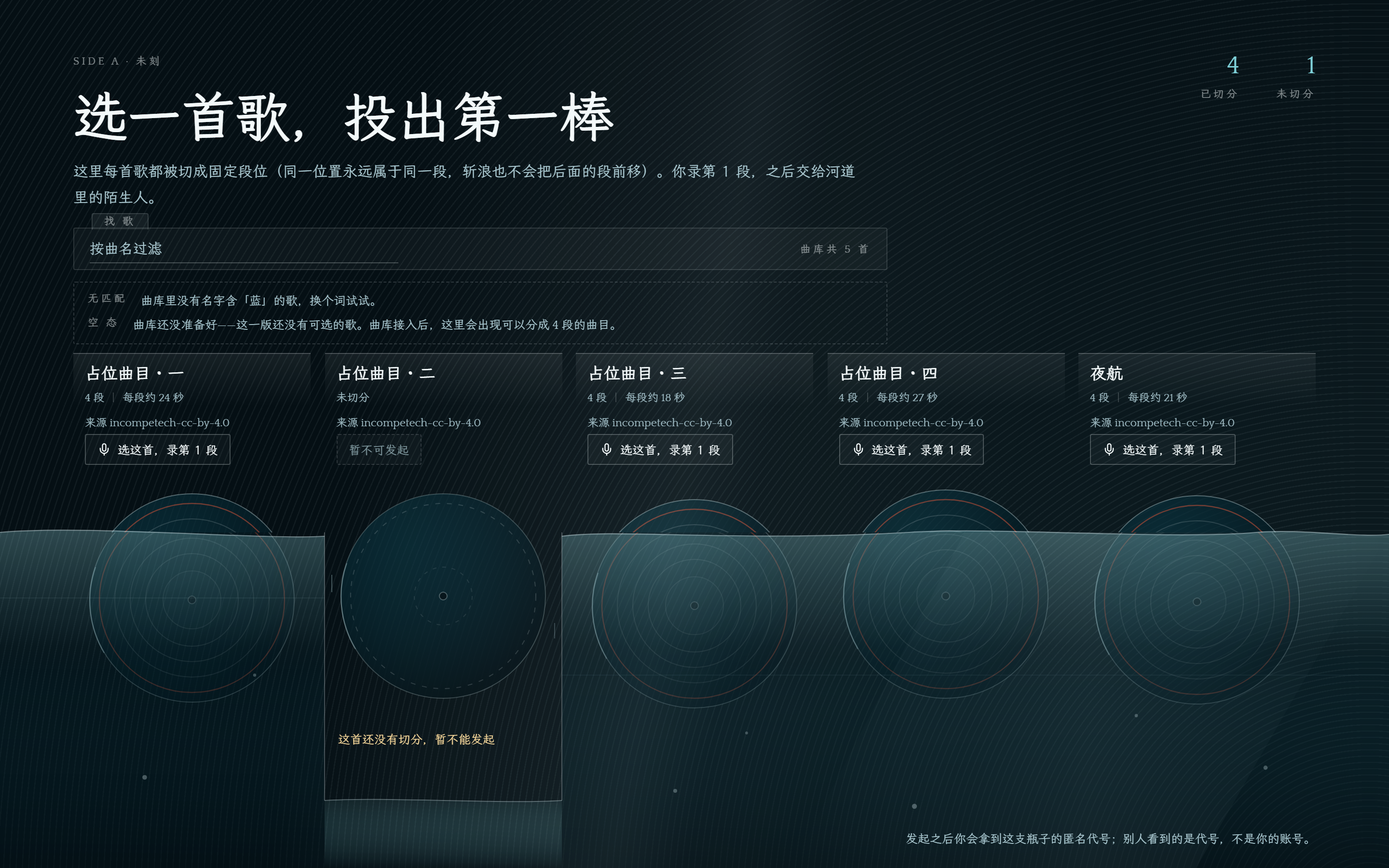
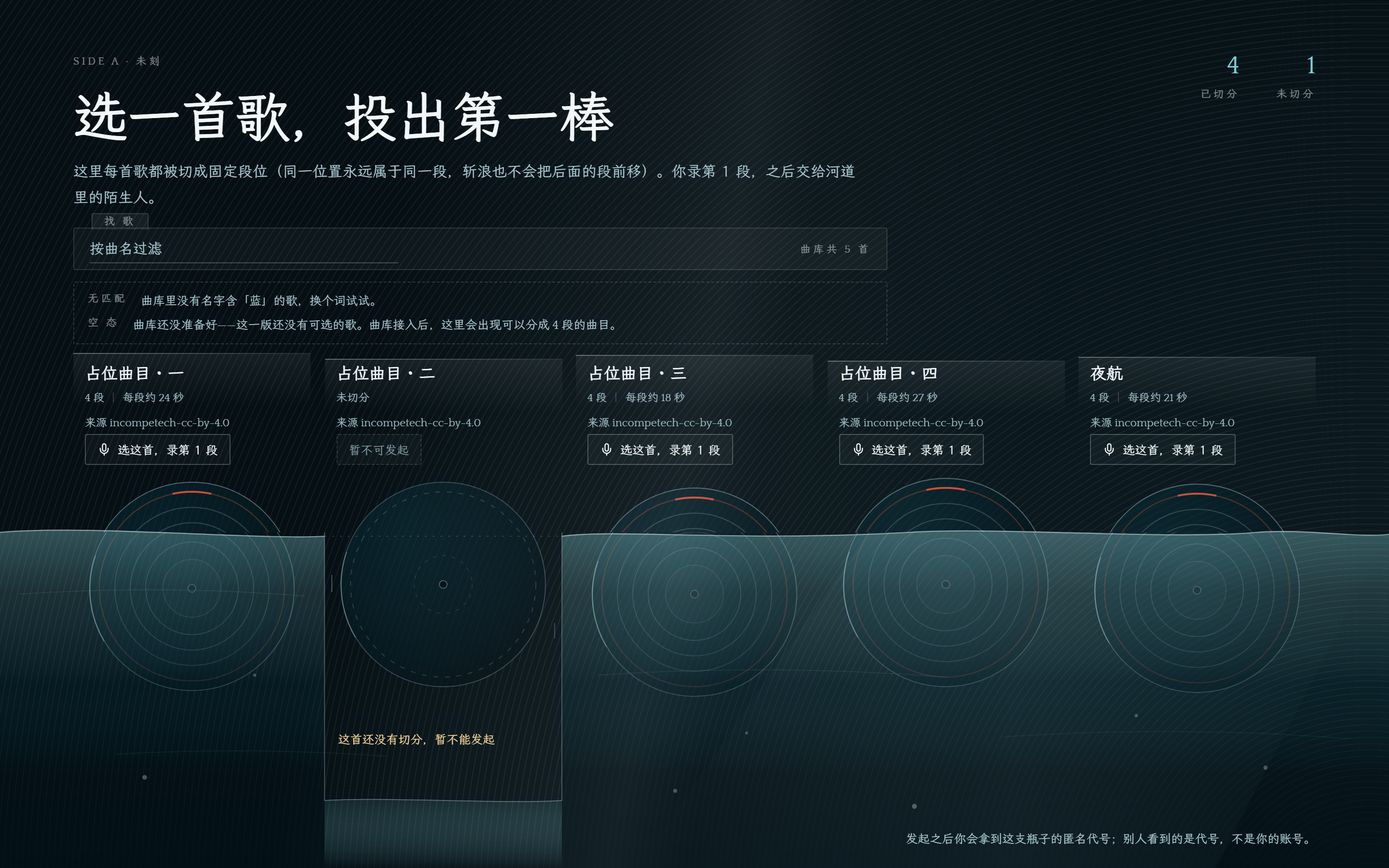
docs(design-explore): 选歌页重塑 —— 一渠水 + 五张半沉母版 + 一格见底的干槽
装置：水位线 y=552 横过全部五格，水面下有折射副本（translate +4px、压暗 .72）=『落在水里』的图形证据；每格一张母版（r106、四道沟槽、第 1 段=最外圈 + 12 点位置一道珊瑚起点弧）；**第 2 格水位塌 278px 到底、见底的干槽**，把那句『这首还没有切分』变成全页唯一的水位差（真映射，不是装饰）；干槽底部与主水体连通（连通器）。推翻了原稿右侧 r150 大圆 + 刻纹机台的纯装饰。

作者自陈的弱点（我认可）：结构上仍是『一列 5 个 文本+按钮 的格子，上面压一片水』——表格感靠卡沿错位与水波压住，没有被消灭；4px 折射在 1440 尺度几乎看不出；『水位＝段位』与公海大厅的『潮位水位尺』概念相邻（物件不同，但可能被判为重复装置 —— 而公海大厅正在推倒重做，这条待重做落地后再复核）。

diff --git a/docs/ui-review/design-explore/p-songpicker-record.html b/docs/ui-review/design-explore/p-songpicker-record.html
@@ -56,8 +56,9 @@
       .rack { position:absolute; inset:0; z-index:3; list-style:none; }
       .bay { position:absolute; top:366px; width:246px; height:534px; }
       .edge { position:absolute; left:0; top:0; width:246px; height:58px;
-        border-top:1px solid rgba(243,249,250,.28);
-        background:linear-gradient(180deg, rgba(243,249,250,.075), rgba(243,249,250,0)); }
+        background:
+          linear-gradient(90deg, rgba(243,249,250,.34), rgba(243,249,250,.05)) 0 0 / 100% 1px no-repeat,
+          linear-gradient(180deg, rgba(243,249,250,.075), rgba(243,249,250,0)); }
       .song { position:absolute; left:12px; top:11px; font-size:17px; font-weight:700; line-height:1.2; }
       .meta { position:absolute; left:12px; font-size:11.5px; color:rgba(169,199,207,.92); }
       .m1 { top:38px; }
@@ -91,16 +92,17 @@
           </radialGradient>
           <linearGradient id="water" x1="0" y1="552" x2="0" y2="900" gradientUnits="userSpaceOnUse">
             <stop offset="0" stop-color="#7fd1d9" stop-opacity=".3" />
-            <stop offset=".2" stop-color="#7fd1d9" stop-opacity=".16" />
-            <stop offset=".5" stop-color="#0a3a48" stop-opacity=".3" />
-            <stop offset="1" stop-color="#031117" stop-opacity=".62" />
+            <stop offset=".18" stop-color="#7fd1d9" stop-opacity=".15" />
+            <stop offset=".45" stop-color="#0a3a48" stop-opacity=".26" />
+            <stop offset=".72" stop-color="#031117" stop-opacity=".52" />
+            <stop offset="1" stop-color="#031117" stop-opacity=".85" />
           </linearGradient>
           <linearGradient id="shallow" x1="0" y1="830" x2="0" y2="900" gradientUnits="userSpaceOnUse">
             <stop offset="0" stop-color="#7fd1d9" stop-opacity=".11" />
             <stop offset="1" stop-color="#031117" stop-opacity=".56" />
           </linearGradient>
-          <linearGradient id="skin" x1="0" y1="552" x2="0" y2="690" gradientUnits="userSpaceOnUse">
-            <stop offset="0" stop-color="#cbeef6" stop-opacity=".09" />
+          <linearGradient id="skin" x1="0" y1="552" x2="0" y2="660" gradientUnits="userSpaceOnUse">
+            <stop offset="0" stop-color="#cbeef6" stop-opacity=".05" />
             <stop offset="1" stop-color="#cbeef6" stop-opacity="0" />
           </linearGradient>
           <linearGradient id="shaft" x1="0" y1="0" x2="1" y2="0">
@@ -114,11 +116,12 @@
           <!-- 一张母版：最外那道沟 = 第 1 段（你先录），往圆心内推 = 后面三段 -->
           <g id="wax">
             <circle r="106" fill="url(#lacquer)" stroke="rgba(228,249,252,.34)" />
-            <path d="M-100 -34 A 106 106 0 0 0 -91 55" stroke="rgba(203,238,246,.55)" stroke-width="1.1" />
-            <circle r="96" stroke="rgba(212,85,58,.52)" stroke-width="1.2" />
-            <circle r="80" stroke="rgba(243,249,250,.15)" />
-            <circle r="64" stroke="rgba(243,249,250,.15)" />
-            <circle r="48" stroke="rgba(243,249,250,.15)" />
+            <path d="M-100 -34 A 106 106 0 0 0 -91 55" stroke="rgba(203,238,246,.5)" stroke-width="1.1" />
+            <circle r="96" stroke="rgba(212,85,58,.34)" stroke-width="1.2" />
+            <circle r="80" stroke="rgba(243,249,250,.18)" />
+            <circle r="64" stroke="rgba(243,249,250,.18)" />
+            <circle r="48" stroke="rgba(243,249,250,.18)" />
+            <path d="M-20 -94 A 96 96 0 0 1 20 -94" stroke="rgba(212,85,58,.9)" stroke-width="2" />
             <circle r="30" fill="rgba(243,249,250,.02)" stroke="rgba(243,249,250,.13)" />
             <circle r="4" fill="#031117" stroke="rgba(228,249,252,.3)" />
           </g>
@@ -133,27 +136,27 @@
 
         <!-- 水面之上：盘面是干净的 -->
         <g clip-path="url(#air)">
-          <use href="#wax" x="199" y="618" />
-          <use href="#wax" x="720" y="624" />
-          <use href="#wax" x="980.5" y="614" />
-          <use href="#wax" x="1241" y="620" />
+          <use href="#wax" x="199" y="606" />
+          <use href="#wax" x="720" y="612" />
+          <use href="#wax" x="980.5" y="602" />
+          <use href="#wax" x="1241" y="608" />
         </g>
         <!-- 水面之下：同一张盘，被水挪了 4px、压暗 —— 这是"落在水里"那句的图形 -->
-        <g clip-path="url(#sunk)" opacity=".62">
+        <g clip-path="url(#sunk)" opacity=".72">
           <g transform="translate(0 4)">
-            <use href="#wax" x="199" y="618" />
-            <use href="#wax" x="720" y="624" />
-            <use href="#wax" x="980.5" y="614" />
-            <use href="#wax" x="1241" y="620" />
+            <use href="#wax" x="199" y="606" />
+            <use href="#wax" x="720" y="612" />
+            <use href="#wax" x="980.5" y="602" />
+            <use href="#wax" x="1241" y="608" />
           </g>
         </g>
         <!-- 干槽里那张：完全在水面外，所以它最亮、最清楚 -->
-        <use href="#waxBlank" x="459.5" y="618" />
+        <use href="#waxBlank" x="459.5" y="606" />
 
         <!-- 水：一整片，只在第 2 格塌成 278px 的水位差 -->
         <path d="M0 552 C90 544 270 560 336.5 556 V900 H582.5 V556 C640 548 760 562 942.5 552 C1032 546 1212 560 1302.5 552 C1350 548 1410 558 1440 554 V900 H0 Z"
           fill="url(#water)" />
-        <path d="M1000 552 L1440 552 L1240 900 L820 900 Z" fill="url(#shaft)" />
+        <path d="M900 552 L1440 552 L1260 900 L660 900 Z" fill="url(#shaft)" />
         <path d="M0 552 C90 544 270 560 336.5 556 V900 H1440 V554 C1410 558 1350 548 1302.5 552 C1212 560 1032 546 942.5 552 C760 562 640 548 582.5 556 V900 H0 Z"
           fill="url(#skin)" opacity=".9" />
 
@@ -165,12 +168,16 @@
         <path d="M575 646 V662" stroke="rgba(203,238,246,.22)" />
 
         <!-- 水与空气的交线（水波，不是一条直尺） -->
-        <path d="M0 552 C90 544 270 560 336.5 556" stroke="rgba(228,247,252,.42)" stroke-width="1.1" />
+        <path d="M0 552 C90 544 270 560 336.5 556" stroke="rgba(228,247,252,.55)" stroke-width="1.1" />
         <path d="M582.5 556 C640 548 760 562 942.5 552 C1032 546 1212 560 1302.5 552 C1350 548 1410 558 1440 554"
-          stroke="rgba(228,247,252,.42)" stroke-width="1.1" />
+          stroke="rgba(228,247,252,.55)" stroke-width="1.1" />
         <path d="M336.5 830 C400 826 520 834 582.5 830" stroke="rgba(228,247,252,.32)" />
-        <path d="M0 620 H336.5" stroke="rgba(203,238,246,.07)" />
-        <path d="M582.5 700 H1440" stroke="rgba(203,238,246,.05)" />
+        <!-- 干槽口那道虚线：水本该漫到这里 -->
+        <path d="M336.5 556 H582.5" stroke="rgba(243,249,250,.16)" stroke-dasharray="2 6" />
+        <path d="M20 616 Q168 606 316 618" stroke="rgba(203,238,246,.08)" />
+        <path d="M620 700 Q800 688 980 702" stroke="rgba(203,238,246,.07)" />
+        <path d="M120 782 Q260 774 400 784" stroke="rgba(203,238,246,.06)" />
+        <path d="M1040 764 Q1220 752 1400 766" stroke="rgba(203,238,246,.06)" />
 
         <!-- 气泡：稀疏，只在水里 -->
         <circle cx="150" cy="806" r="2.4" fill="rgba(228,247,252,.3)" />
@@ -224,7 +231,7 @@
       </li>
 
       <li class="bay" style="left:336.5px">
-        <span class="edge"></span>
+        <span class="edge" style="top:6px"></span>
         <p class="song">占位曲目 · 二</p>
         <p class="meta m1">未切分</p>
         <p class="meta m2">来源 incompetech-cc-by-4.0</p>
@@ -233,7 +240,7 @@
       </li>
 
       <li class="bay" style="left:597px">
-        <span class="edge"></span>
+        <span class="edge" style="top:2px"></span>
         <p class="song">占位曲目 · 三</p>
         <p class="meta m1">4 段<span class="sep"></span>每段约 18 秒</p>
         <p class="meta m2">来源 incompetech-cc-by-4.0</p>
@@ -246,7 +253,7 @@
       </li>
 
       <li class="bay" style="left:857.5px">
-        <span class="edge"></span>
+        <span class="edge" style="top:8px"></span>
         <p class="song">占位曲目 · 四</p>
         <p class="meta m1">4 段<span class="sep"></span>每段约 27 秒</p>
         <p class="meta m2">来源 incompetech-cc-by-4.0</p>
@@ -259,7 +266,7 @@
       </li>
 
       <li class="bay" style="left:1118px">
-        <span class="edge"></span>
+        <span class="edge" style="top:4px"></span>
         <p class="song">夜航</p>
         <p class="meta m1">4 段<span class="sep"></span>每段约 21 秒</p>
         <p class="meta m2">来源 incompetech-cc-by-4.0</p>
